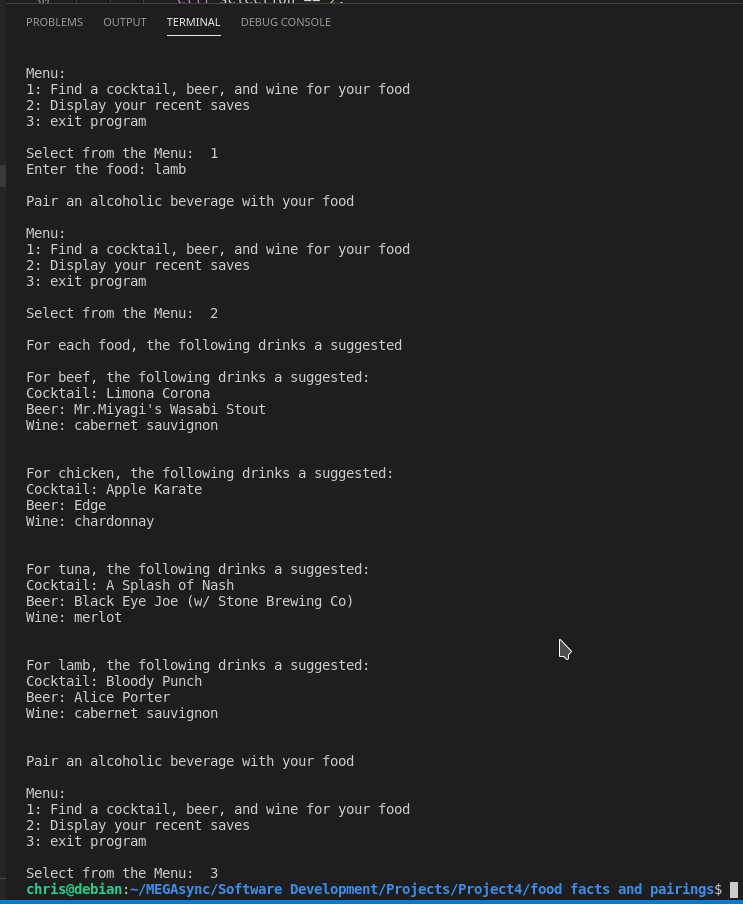
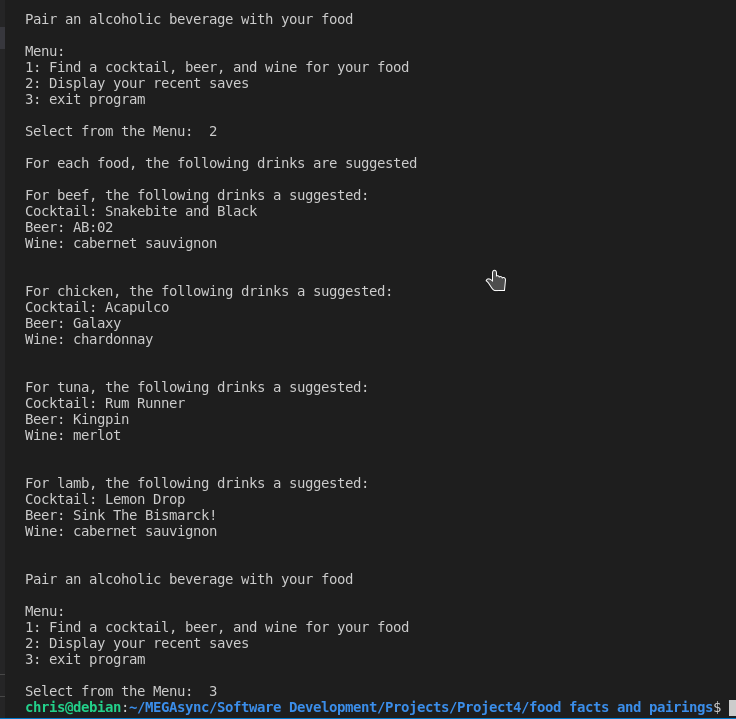
added comments

diff --git a/main.py b/main.py
@@ -1,6 +1,6 @@
 # This program selects the best alcoholic drink that goes with your food
 import cocktail, beer, wine
-from alcohol import Cocktail, Food_Alcohol, Beer, Wine, Pairings
+from alcohol import Cocktail, Food_Alcohol, Beer, Wine
 import os
 import sqlite3
 
@@ -60,7 +60,7 @@ def show_pairings():
 
     print('\nFor each food, the following drinks are suggested')
     for r in rows:
-        print(f"\nFor {r['food']}, the following drinks a suggested:\n"
+        print(f"\nFor {r['food']}, the following drinks are suggested:\n"
         f"Cocktail: {r['cocktail']}\n"
         f"Beer: {r['beer']}\n"
         f"Wine: {r['wine']}\n")
